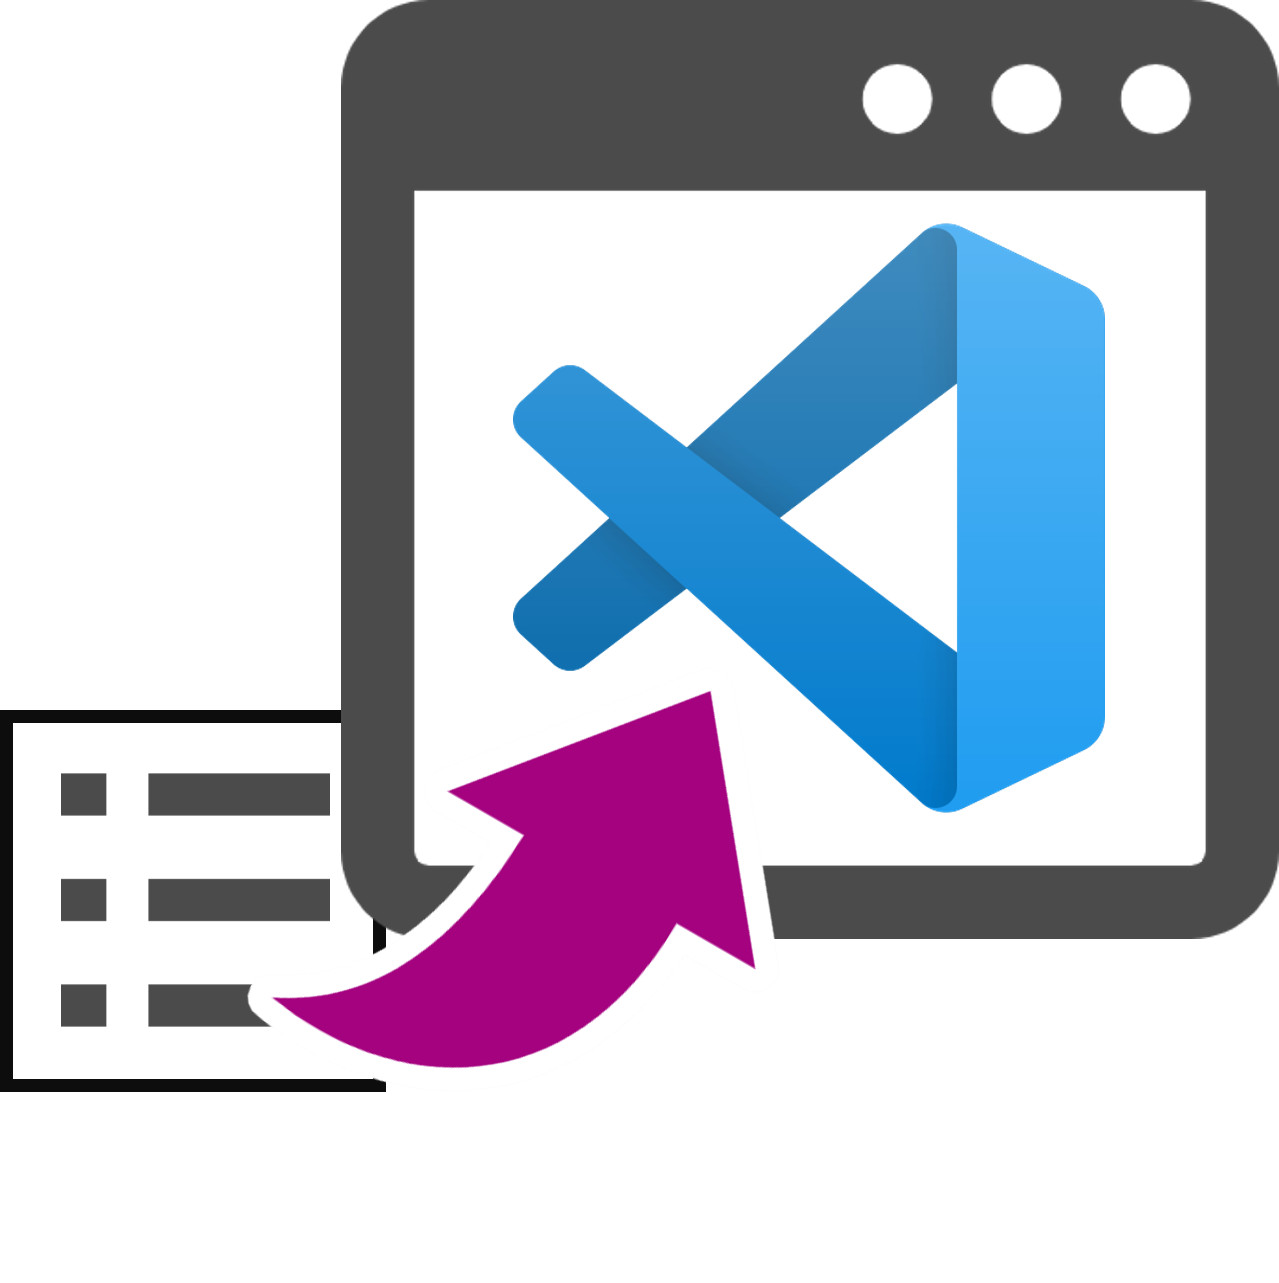
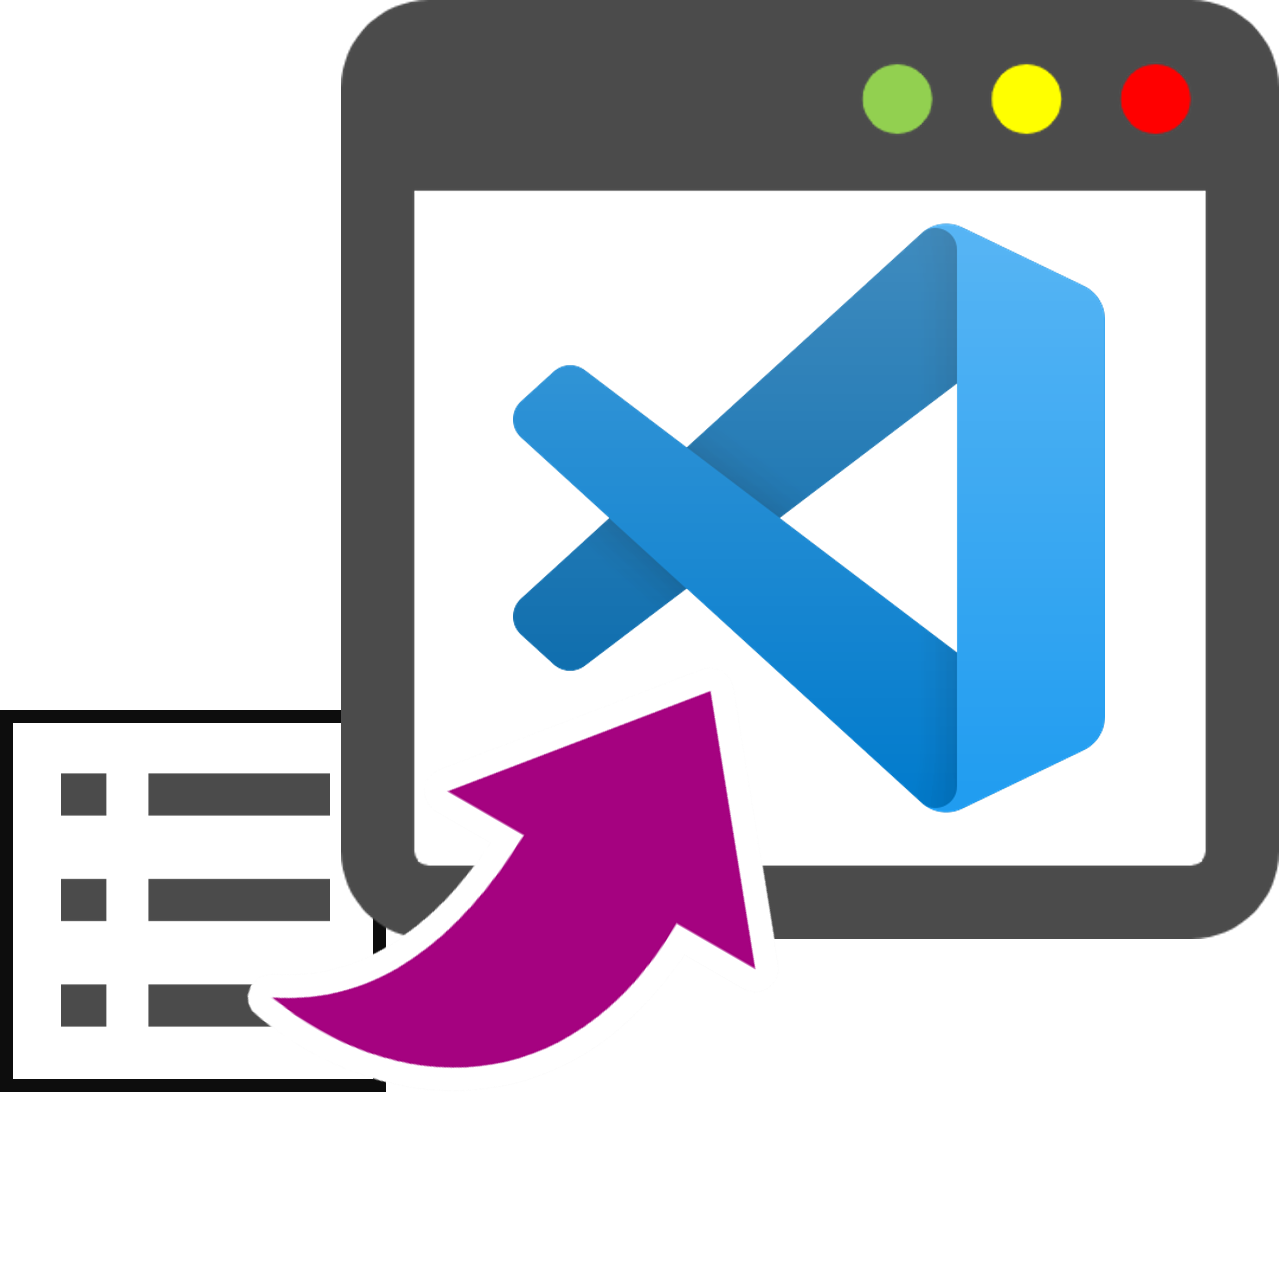
[update] Support Untitled file
- Add VSCode command check function.
- Support Untitled file.
- Update README.md.
- Update icon file.

Changed region(s): [[0.7623, 0.0312, 0.9453, 0.1247], [0.6708, 0.0312, 0.7318, 0.1247]]

diff --git a/src/extension.ts b/src/extension.ts
@@ -2,10 +2,18 @@
 // Import the module and reference it with the alias vscode in your code below
 import * as vscode from 'vscode';
 import * as op from './openwindow';
+import { isCodeCommandAvailable } from './path';
 
 // this method is called when your extension is activated
 // your extension is activated the very first time the command is executed
 export function activate(context: vscode.ExtensionContext) {
+	/* Check VScode command */
+	if (isCodeCommandAvailable() === false) {
+		var msg = "[ Open Window Tab Context ] ";
+		msg += "Failed to get VSCode command path.";
+		vscode.window.showErrorMessage(msg);
+	}
+
 	let openFileInNewWindow = vscode.commands.registerCommand(op.OpenFileInNewWindowCommandId, op.openFileInNewWindow);
 
 	context.subscriptions.push(openFileInNewWindow);

diff --git a/src/path.ts b/src/path.ts
@@ -12,12 +12,6 @@ export function getCodeCommandPath() {
 		return cache[command];
 	}
 
-	var codePath = <string>vscode.workspace.getConfiguration("vscode-open-project").get("codePath");
-	if (codePath && fs.existsSync(codePath)) {
-		cache[command] = codePath;
-		return codePath;
-	}
-
 	if (process.env["PATH"]) {
 		var pathparts = process.env["PATH"].split(path.delimiter);
 		for (var i = 0; i < pathparts.length; i++) {
@@ -33,7 +27,6 @@ export function getCodeCommandPath() {
 }
 
 export function isCodeCommandAvailable(): boolean {
-	var command = correctCommandName("code");
 	return getCodeCommandPath() !== null;
 }
 

diff --git a/CHANGELOG.md b/CHANGELOG.md
@@ -4,6 +4,14 @@ All notable changes to the "open-window-tab-context" extension will be documente
 
 Check [Keep a Changelog](http://keepachangelog.com/) for recommendations on how to structure this file.
 
-## [Unreleased]
+## [1.1.0] - 2020-01-10
+### Changed
+- Add VSCode command check function.
+- Support Untitled file.
+- Update README.md.
+- Update icon file.
 
+## [1.0.0] - 2019-12-31
 - Initial release
+
+## [Unreleased]

diff --git a/README.md b/README.md
@@ -9,6 +9,13 @@ VSCode extension which add an "Open in new window" option to the right-click tab
 ✅ Linux (Ubuntu 18.04)  
 
 ## Release Notes
+### 1.1.0
+
+- Add VSCode command check function.
+- Support Untitled file.
+- Update README.md.
+- Update icon file.
+
 ### 1.0.0
 
 Initial release
